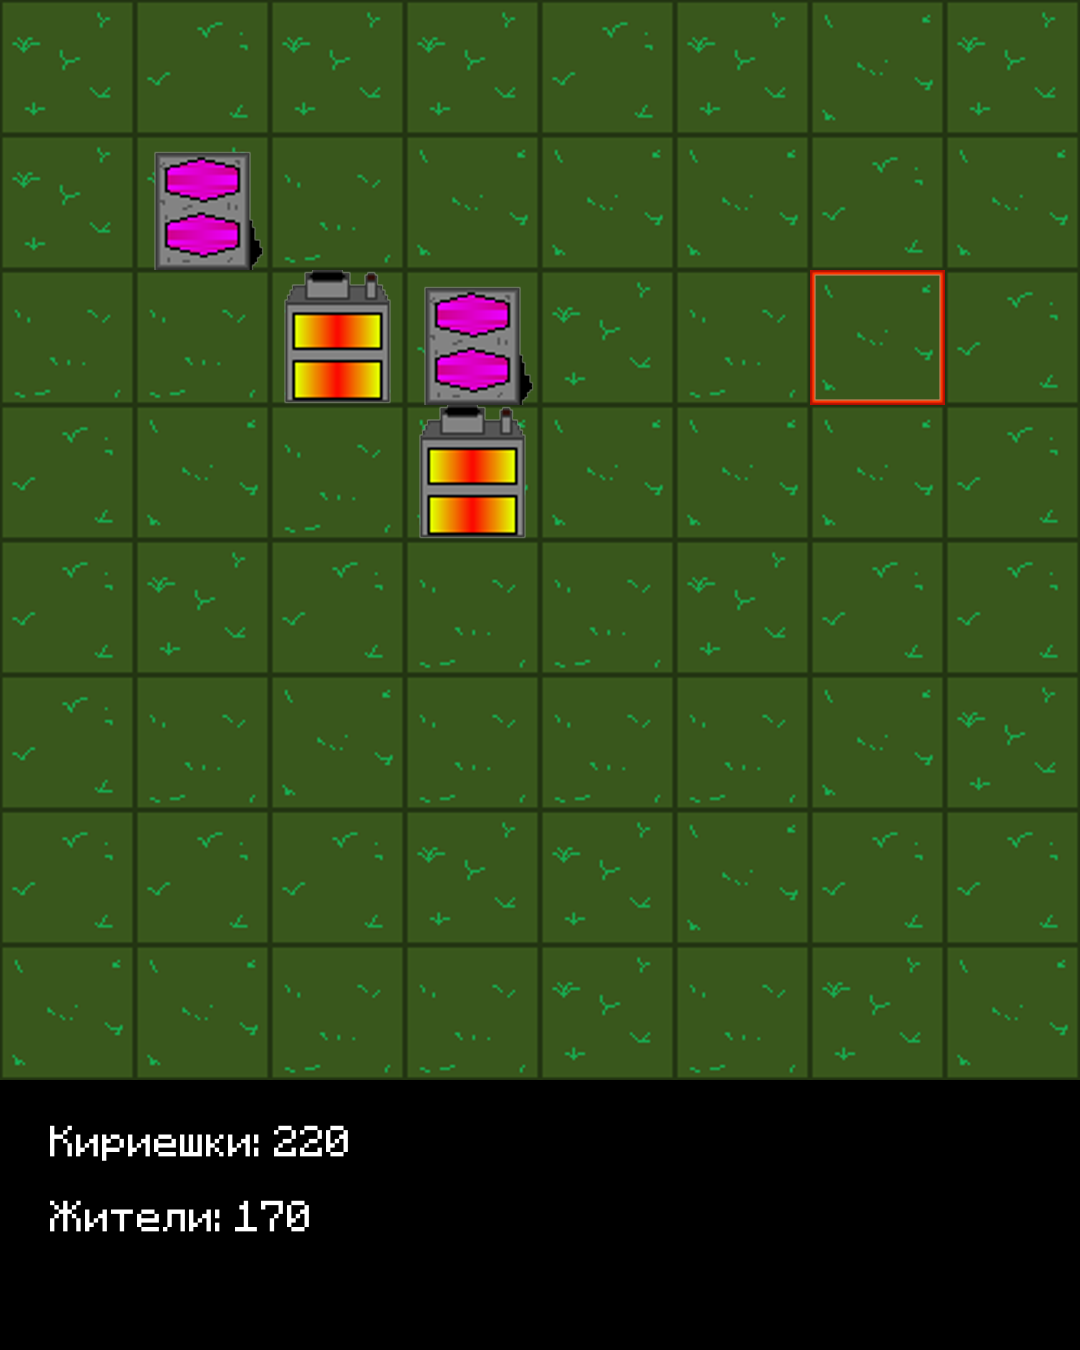
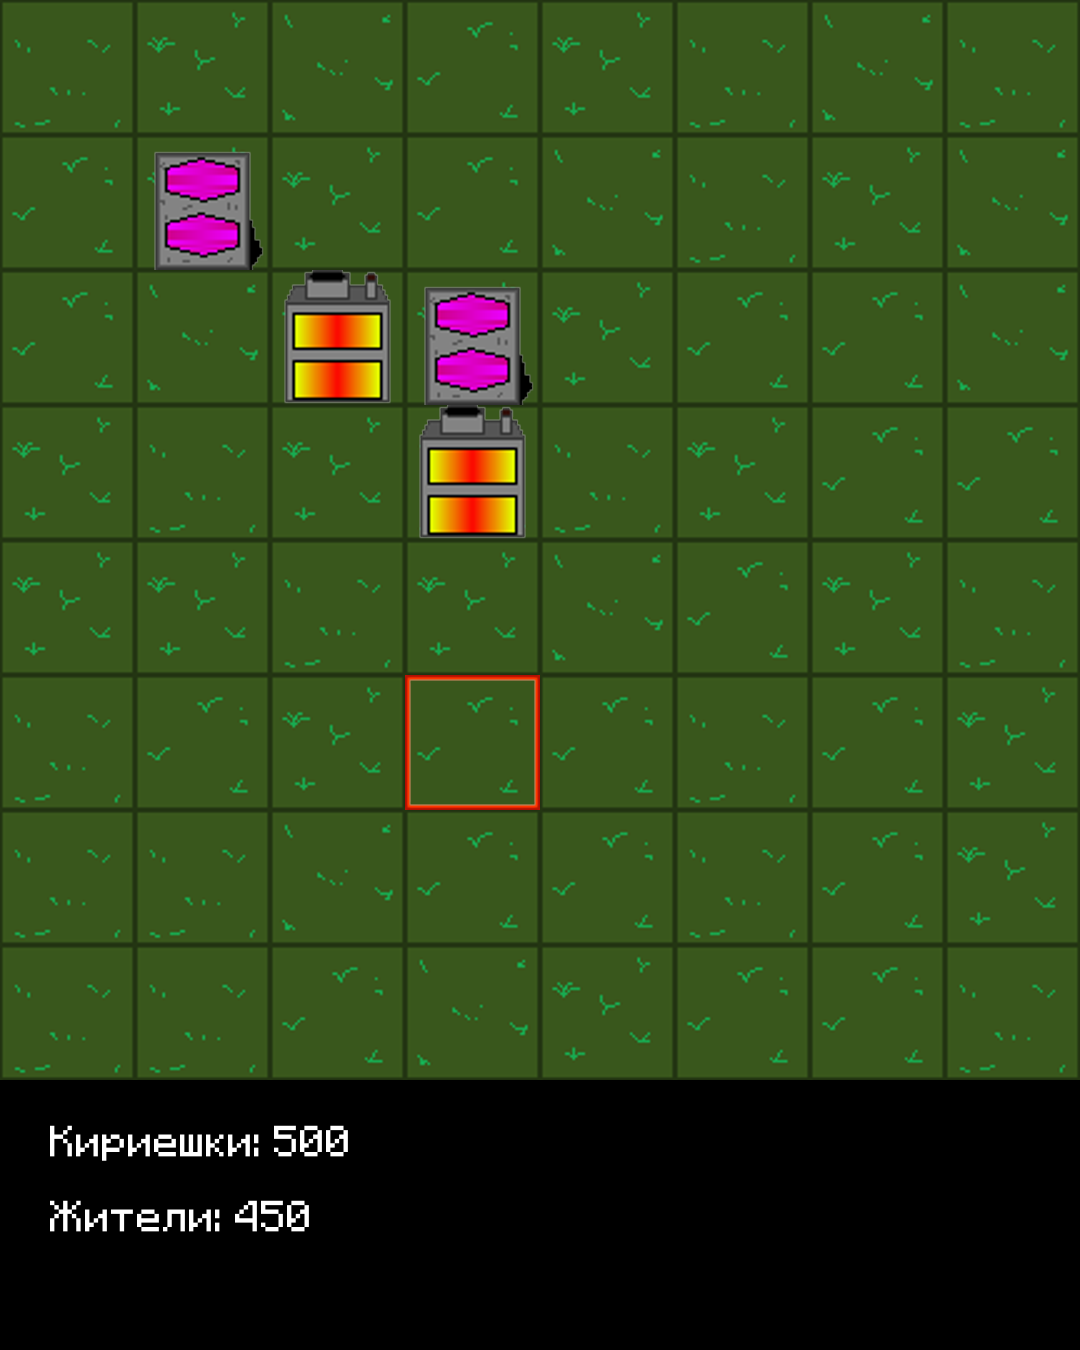
Мега супер обнова
Теперь игроки не пересекаются, но теперь если оба игрока генерируют картинку, то надо ждать в "очереди"
Пофиксим

diff --git a/BGEvr/botik.py b/BGEvr/botik.py
@@ -53,8 +53,7 @@ class RunGameBot:
         for i in self.db.select("user_info"):
             if self.user.id in i:
                 _res += 1
-        if _res == 0:
-            self.db.insert_batch("user_info",[{"pos_x" : 1,"pos_y" : 1, "units" : 10, "house_id" : 'no_buildings', "chat_id" : self.user.id,"user_id" : self.user.id,"created" : int(datetime.now().timestamp()), "updated" : int(datetime.now().timestamp()),"money" : 100,"user_nickname" : self.user.full_name, "wood": 10, "iron": 10}],id_name='user_id')
+
         self.data_loader = Data(self.user.id)
         self.render = Render(self.db,self.user.id)
         self.game_data = self.data_loader.load_game_data()
@@ -62,9 +61,13 @@ class RunGameBot:
         self.render.render(self.player.progress, self.user.id)
         self.render.save_pic(self.user.id)
         self.player_view = ViewTG(self.user.id,self.token)
-        self.player_view.send_pic(update=update,callback=CallbackContext, user_id=self.user.id)
+        message = self.player_view.send_pic(update=update,callback=CallbackContext, user_id=self.user.id, message_id=None)
         reply_markup = InlineKeyboardMarkup(self.used_keyboard)
         update.message.reply_text(f"Чё делать будешь? \n {self.txt}",reply_markup=reply_markup)
+        if _res == 0:
+            self.db.insert_batch("user_info",[{"pos_x" : 1,"pos_y" : 1, "units" : 10, "house_id" : 'no_buildings', "chat_id" : self.user.id,"user_id" : self.user.id,"created" : int(datetime.now().timestamp()), "updated" : int(datetime.now().timestamp()),"money" : 100,"user_nickname" : self.user.full_name, "wood": 10, "iron": 10, "last_img_id": message.message_id}],id_name='user_id')
+        get_request = f"""updated={int(datetime.now().timestamp())},last_img_id = {message.message_id}"""
+        self.db.update("user_info", get_request, self.user.id)
 
 
 
@@ -73,11 +76,11 @@ class RunGameBot:
         query = update.callback_query
         query.answer()
         print(query.data)
-        self.player = Player(query.from_user.id, self.db)
+        player = Player(query.from_user.id, self.db)
         #if query.data == 'mod':
         #    self.txt += ",".join(self.dataloader.load_player_id())
         if query.data == 'next_move':
-            self.player.next_turn(query.from_user.id)
+            player.next_turn(query.from_user.id)
             update_usage = True
         if query.data == 'build':
             self.used_keyboard = self.build_keyboard
@@ -86,36 +89,37 @@ class RunGameBot:
         if query.data == 'info':
             self.txt += self.player.player_info(query.from_user.id)
         if query.data == 'u':
-            self.player.player_move("u", query.from_user.id)
+            player.player_move("u", query.from_user.id)
             update_usage = True
         if query.data == 'r':
-            self.player.player_move("r", query.from_user.id)
+            player.player_move("r", query.from_user.id)
             update_usage = True
         if query.data == 'l':
-            self.player.player_move("l", query.from_user.id)
+            player.player_move("l", query.from_user.id)
             update_usage = True
         if query.data == 'd':
-            self.player.player_move("d", query.from_user.id)
+            player.player_move("d", query.from_user.id)
             update_usage = True
         if query.data == 'factory':
-            self.player.build_smth("small_factory", query.from_user.id)
+            player.build_smth("small_factory", query.from_user.id)
             update_usage = True
             self.txt += f'Вы протратили много кириешек,зайдите в статистику для того, чтобы узнать сколько у вас осталось'
         if query.data == 'house_lvl_1':
-            self.player.build_smth("small_house", query.from_user.id)
+            player.build_smth("small_house", query.from_user.id)
             update_usage = True
             self.txt += f'Вы протратили очень много кириешек,зайдите в статистику для того, чтобы узнать сколько у вас осталось'
         if query.data == 'bank':
-            self.player.build_smth("small_shop", query.from_user.id)
+            player.build_smth("small_shop", query.from_user.id)
             update_usage = True
             self.txt += f'Вы протратили достаточно кириешек,зайдите в статистику для того, чтобы узнать сколько у вас осталось'
         #self.player.next_turn()
         self.render.render(self.player.progress, query.from_user.id)
         self.render.save_pic(query.from_user.id)
         if update_usage:
-            self.player_view.send_pic(Update,CallbackContext, query.from_user.id)
+            self.player_view.send_pic(Update,CallbackContext, query.from_user.id, query.message.message_id, db=self.db)
         #REQUEST = f"""var_1 = {...},var_2 = {...}"""
         get_request = f"""updated={int(datetime.now().timestamp())},pos_x = {self.player.player_pos_x},pos_y = {self.player.player_pos_y}"""
         self.db.update("user_info",get_request,self.user.id)
-        update.callback_query.message.edit_text(f"Чё делать будешь? \n {self.txt}",reply_markup=InlineKeyboardMarkup(self.used_keyboard))
+        if query.message.text != "Чё делать будешь?":
+            update.callback_query.message.edit_text(f"Чё делать будешь? \n {self.txt}",reply_markup=InlineKeyboardMarkup(self.used_keyboard))
         self.txt = ''

diff --git a/BGEvr/Model/player.py b/BGEvr/Model/player.py
@@ -19,11 +19,13 @@ class Player:
         #print(self.pay_for_turn)
 
     def player_move(self,move, user_id):
-        self.player_pos_x = self.db.select_by_user_id("user_info", user_id)[0][0]
-        self.player_pos_y = self.db.select_by_user_id("user_info", user_id)[0][1]
-        self.player_money = self.db.select_by_user_id("user_info", user_id)[0][8]
-        self.player_units = self.db.select_by_user_id("user_info", user_id)[0][2]
-        self.progress = {"x": self.player_pos_x, "y": self.player_pos_y}
+        db = Adapter(schema_name="Yellow_Team_Project", host="rc1d-9cjee2y71olglqhg.mdb.yandexcloud.net",
+                          port="6432", dbname="sch58_db", sslmode=None, user="Admin", password="atdhfkm2024",
+                          target_session_attrs="read-write")
+        db.connect()
+        player_pos_x = db.select_by_user_id("user_info", user_id)[0][0]
+        player_pos_y = db.select_by_user_id("user_info", user_id)[0][1]
+        progress = {"x": player_pos_x, "y": player_pos_y}
 
         #print(len(self.progress["map_data"][0]))
         """self.progress = self.dataloader.load_user_data()
@@ -38,28 +40,20 @@ class Player:
         else:
             print("куда валишь??77?7??777777?77?7")
         self.dataloader.save_user_data("""
-        if move == 'u' and self.player_pos_x > 0:
-            self.player_pos_x -= 1
-        if move == 'd' and self.player_pos_x < 7:
-            self.player_pos_x += 1
-        if move == 'r' and self.player_pos_y < 7:
-            self.player_pos_y += 1
-        if move == 'l' and self.player_pos_y > 0:
-            self.player_pos_y -= 1
-        self.progress = {"x" : self.player_pos_x,"y" : self.player_pos_y}
-        move_request = f"""pos_x = {self.player_pos_x},pos_y = {self.player_pos_y}"""
-        self.db.update("user_info",move_request,self.user_id)
+        if move == 'u' and player_pos_x > 0:
+            player_pos_x -= 1
+        if move == 'd' and player_pos_x < 7:
+            player_pos_x += 1
+        if move == 'r' and player_pos_y < 7:
+            player_pos_y += 1
+        if move == 'l' and player_pos_y > 0:
+            player_pos_y -= 1
+        progress = {"x" : player_pos_x,"y" : player_pos_y}
+        move_request = f"""pos_x = {player_pos_x},pos_y = {player_pos_y}"""
+        db.update("user_info",move_request,user_id)
         
     
     def next_turn(self, user_id):
-        self.player_pos_x = self.db.select_by_user_id("user_info", user_id)[0][0]
-        self.player_pos_y = self.db.select_by_user_id("user_info", user_id)[0][1]
-        self.player_money = self.db.select_by_user_id("user_info", user_id)[0][8]
-        self.player_units = self.db.select_by_user_id("user_info", user_id)[0][2]
-        self.player_money = self.db.select_by_user_id("user_info", user_id)[0][8]
-        self.player_units = self.db.select_by_user_id("user_info", user_id)[0][2]
-        self.progress = {"x": self.player_pos_x, "y": self.player_pos_y}
-
         houses_data = {
             "small_house": [0, 10],
             "small_factory": [10, 0]
@@ -69,6 +63,11 @@ class Player:
                           port="6432", dbname="sch58_db", sslmode=None, user="Admin", password="atdhfkm2024",
                           target_session_attrs="read-write")
         self.db.connect()
+        
+        self.player_money = self.db.select_by_user_id("user_info", user_id)[0][8]
+        self.player_units = self.db.select_by_user_id("user_info", user_id)[0][2]
+        self.player_money = self.db.select_by_user_id("user_info", user_id)[0][8]
+        self.player_units = self.db.select_by_user_id("user_info", user_id)[0][2]
 
         user_houses = self.db.select_by_user_id("user_info", user_id)[0][3]
         if user_houses == "no_buildings":

diff --git a/BGEvr/View/ViewTG.py b/BGEvr/View/ViewTG.py
@@ -1,6 +1,7 @@
 from telegram import InlineKeyboardButton, InlineKeyboardMarkup, Update, Contact,Bot
 from telegram.ext import Updater, CommandHandler, MessageHandler, Filters, CallbackContext, ConversationHandler,CallbackQueryHandler
 from telegram.files.inputmedia import InputMediaPhoto
+from database_adapter import *
 import os
 
 class ViewTG():
@@ -10,20 +11,28 @@ class ViewTG():
         self.message = None
         self.file_size = None
         self._first_pic = True
-    def send_pic(self,update:Update,callback:CallbackContext, user_id):
+    def send_pic(self,update:Update,callback:CallbackContext, user_id, message_id=None, db=None):
         bot = Bot(self.bot_id)
         self.user_id = user_id
+        self.db = Adapter(schema_name="Yellow_Team_Project", host="rc1d-9cjee2y71olglqhg.mdb.yandexcloud.net",
+                          port="6432", dbname="sch58_db", sslmode=None, user="Admin", password="atdhfkm2024",
+                          target_session_attrs="read-write")
+        self.db.connect()
+        self.last_img_id = self.db.select_by_user_id("user_info", user_id)[0][12]
         try:
-            if self._first_pic:
+            if self._first_pic and message_id==None:
                 self.message = bot.send_photo(self.user_id,photo=open(f'players_images/{self.user_id}.png','rb'))
                 self._first_pic = False
             else:
                 media_file = InputMediaPhoto(open(f'players_images/{self.user_id}.png','rb'))
                 file_size = os.path.getsize(f'players_images/{self.user_id}.png')
                 #logger.warning(file_size)
-                bot.edit_message_media(chat_id=self.user_id,message_id=self.message.message_id,media=media_file)
+                self.message = bot.edit_message_media(chat_id=self.user_id,message_id=self.last_img_id,media=media_file)
                 self.file_size = file_size
+
+            return self.message
+
         except Exception as error:
             #logger.critical(error)
+            print(error)
             bot.send_message(self.user_id,"oh no, something did wrong :(")
-    
